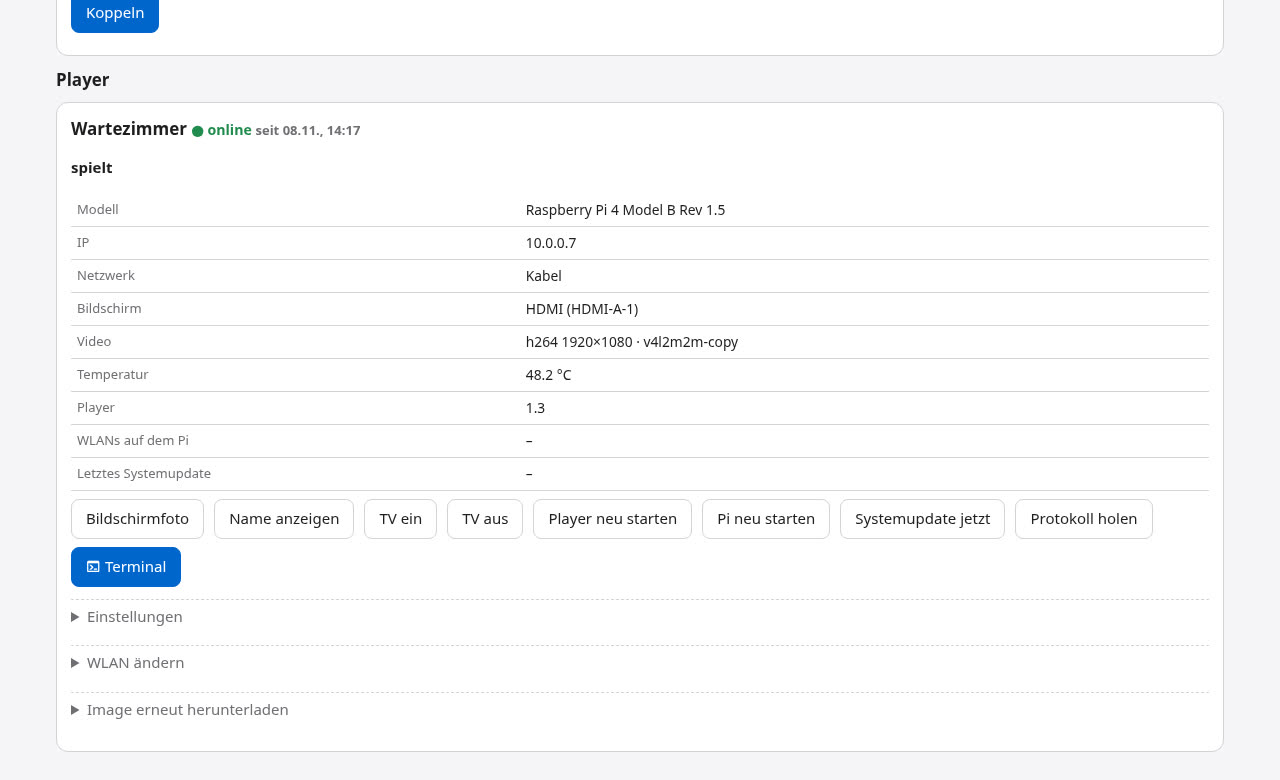
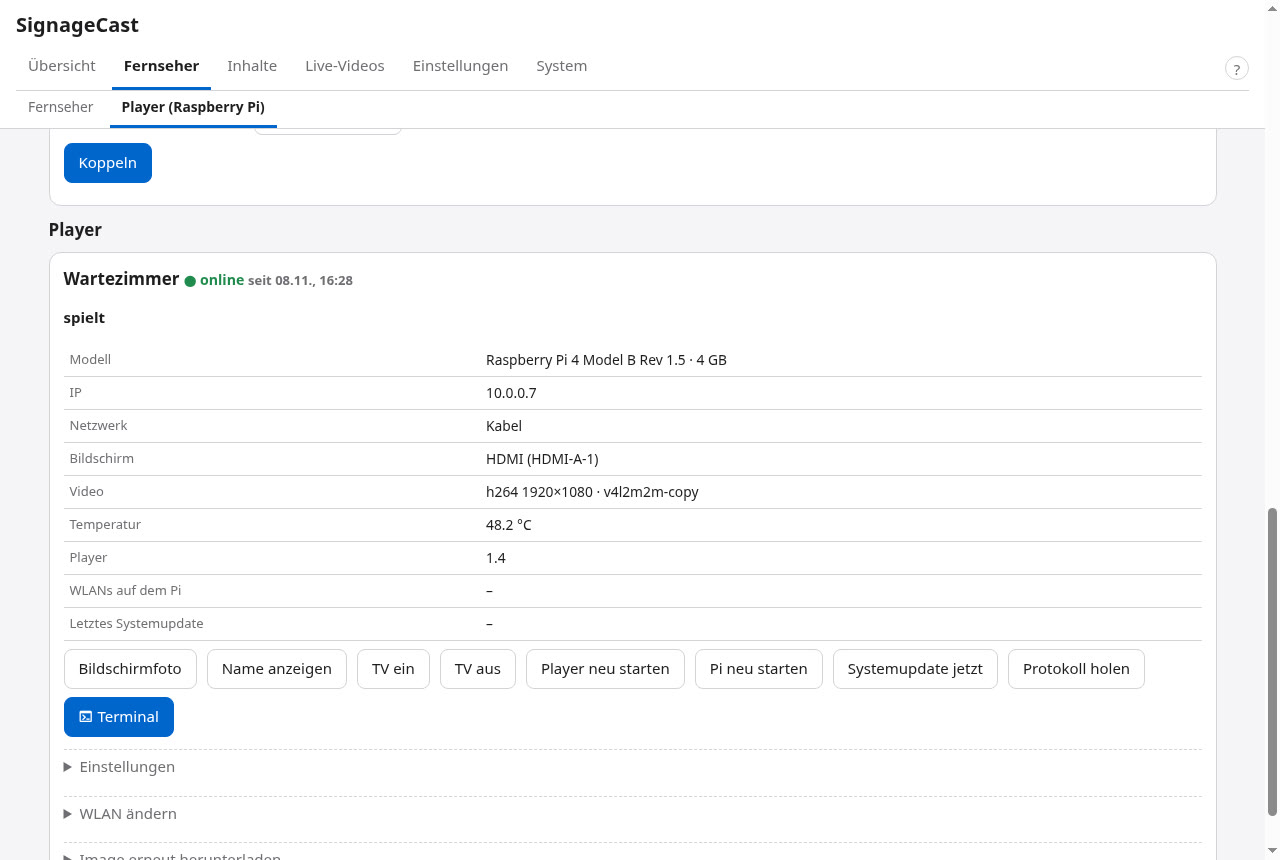
Tour: Player-Karte mit Arbeitsspeicher (0.34), RAM-Empfehlung im Text
Claude-Session: https://claude.ai/code/session_01LNDhmfSQXqarshduJ2BAH1

diff --git a/docs/TOUR.de.md b/docs/TOUR.de.md
@@ -2,7 +2,7 @@
 
 Ein Rundgang durch SignageCast: was der Fernseher zeigt und wie du alles im Browser einstellst. Alle Bilder stammen
 aus einer Demo-Installation (Standort Berlin, öffentliche bzw. erfundene Beispieldaten, kein Home Assistant
-angebunden). Die Verwaltung zeigt Version 0.33 mit den sechs Bereichen Übersicht, Fernseher, Inhalte, Live-Videos,
+angebunden). Die Verwaltung zeigt Version 0.33 (Player-Karte 0.34) mit den sechs Bereichen Übersicht, Fernseher, Inhalte, Live-Videos,
 Einstellungen und System.
 
 **🇬🇧 [English version](TOUR.md)**
@@ -86,7 +86,9 @@ bleibt SignageCast bei „Automatisch“. Felder, die für den aktiven Encoder n
 Fernseher → *Player (Raspberry Pi)*: Ein Pi am Fernseher zeigt den fertigen Stream per HDMI – auch an Fernsehern ohne
 brauchbaren Browser. Name eingeben, Fernseher und Netzwerk (LAN oder WLAN) wählen, fertiges Image herunterladen und auf
 eine SD-Karte schreiben; am Pi musst du nichts eintippen. Oder ein Image für viele Pis: Jeder zeigt einen 6-stelligen
-Code auf dem Fernseher, den du hier zum Koppeln eingibst. Danach verwaltest du jeden Pi hier: online, Modell, IP,
+Code auf dem Fernseher, den du hier zum Koppeln eingibst. Welcher Pi passt, steht gleich bei der Modellwahl: Für den Stream
+reicht 1 GB Arbeitsspeicher, für den Direktmodus (Pi zeigt die Seite selbst) mindestens 2 GB, besser 4 GB (seit 0.34).
+Danach verwaltest du jeden Pi hier: online, Modell mit Arbeitsspeicher, IP,
 Bildschirm, Video, Temperatur, Knöpfe für Bildschirmfoto, TV ein/aus (HDMI-CEC), Neustart und Systemupdate und
 WLAN-Wechsel mit automatischer Rückkehr ins alte Netz. Der Pi auf diesen Bildern ist simuliert (echter Agent-Code) –
 am echten Gerät ist der Player noch nicht getestet ([Details](PLAYER.md#deutsch-raspberry-pi-als-player)).

diff --git a/docs/TOUR.md b/docs/TOUR.md
@@ -2,7 +2,7 @@
 
 A walk through SignageCast: what the TV shows and how you set it up in the browser. All pictures are from a demo
 installation (location Berlin, public example data, no Home Assistant connected). The admin pictures show version
-0.33 with the six areas Overview, TVs, Content, Live videos, Settings and System.
+0.33 (player card 0.34) with the six areas Overview, TVs, Content, Live videos, Settings and System.
 
 **🇩🇪 [Deutsche Version mit deutschen Bildern](TOUR.de.md)**
 
@@ -80,7 +80,9 @@ preset, tune and B-frames per TV. A change is tried briefly first; if it does no
 TVs → *Players (Raspberry Pi)*: a Pi at the TV plays the finished stream via HDMI – also on TVs without a usable
 browser. Enter a name, pick the TV and the network (LAN or Wi-Fi), download a ready image and write it to an SD card;
 nothing to type on the Pi. Or download one image for many Pis: each shows a 6-digit code on the TV, which you enter
-here to pair it. Afterwards every Pi is managed here: online state, model, IP, screen, video, temperature, buttons for
+here to pair it. The model choice says which Pi fits: 1 GB of memory is enough for the stream,
+direct mode (the Pi shows the page itself) needs at least 2 GB, better 4 GB (since 0.34). Afterwards every Pi is managed
+here: online state, model with memory, IP, screen, video, temperature, buttons for
 screenshot, TV on/off (HDMI-CEC), restart and system update, and Wi-Fi changes with automatic return to the old network.
 The Pi in these pictures is simulated (real agent code) – the player has not been tested on real hardware yet
 ([details](PLAYER.md)).
